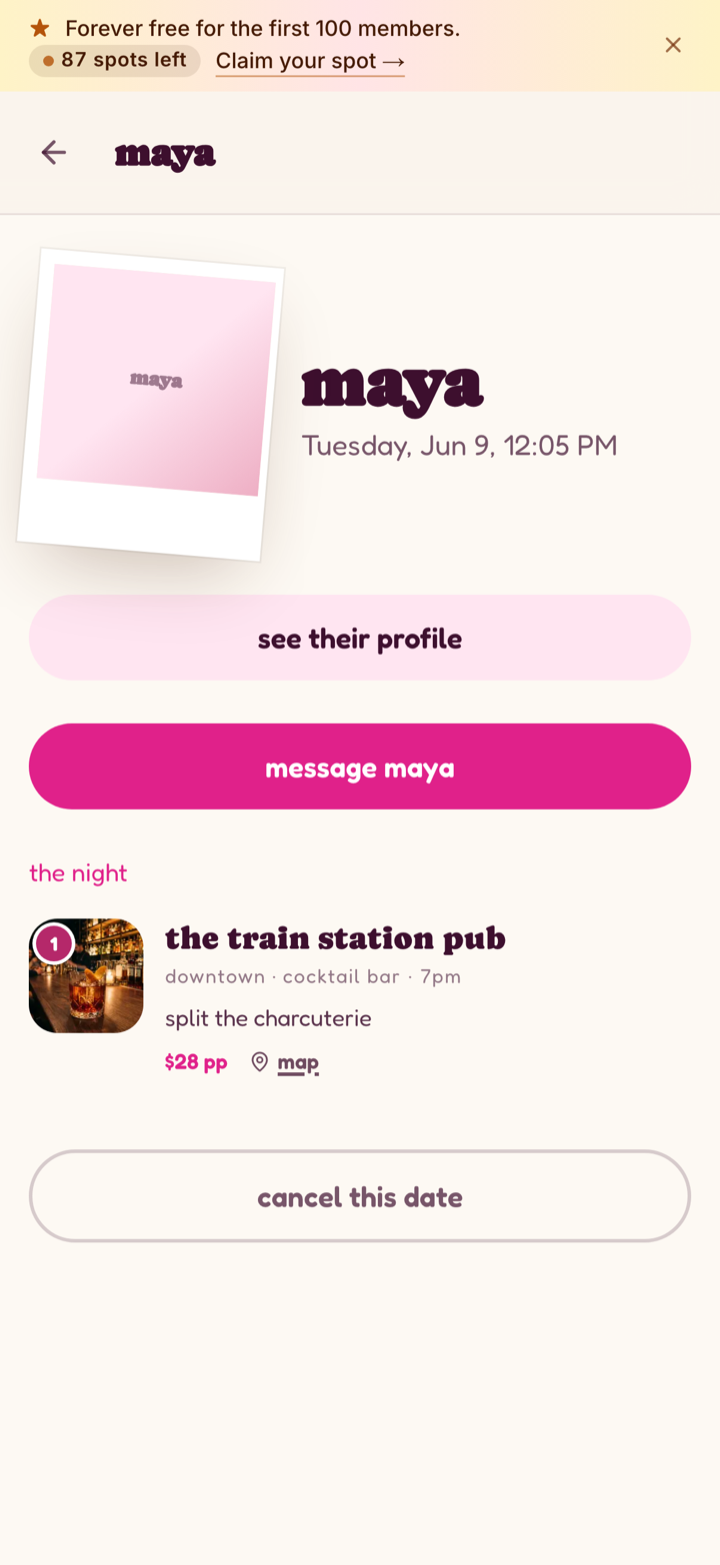
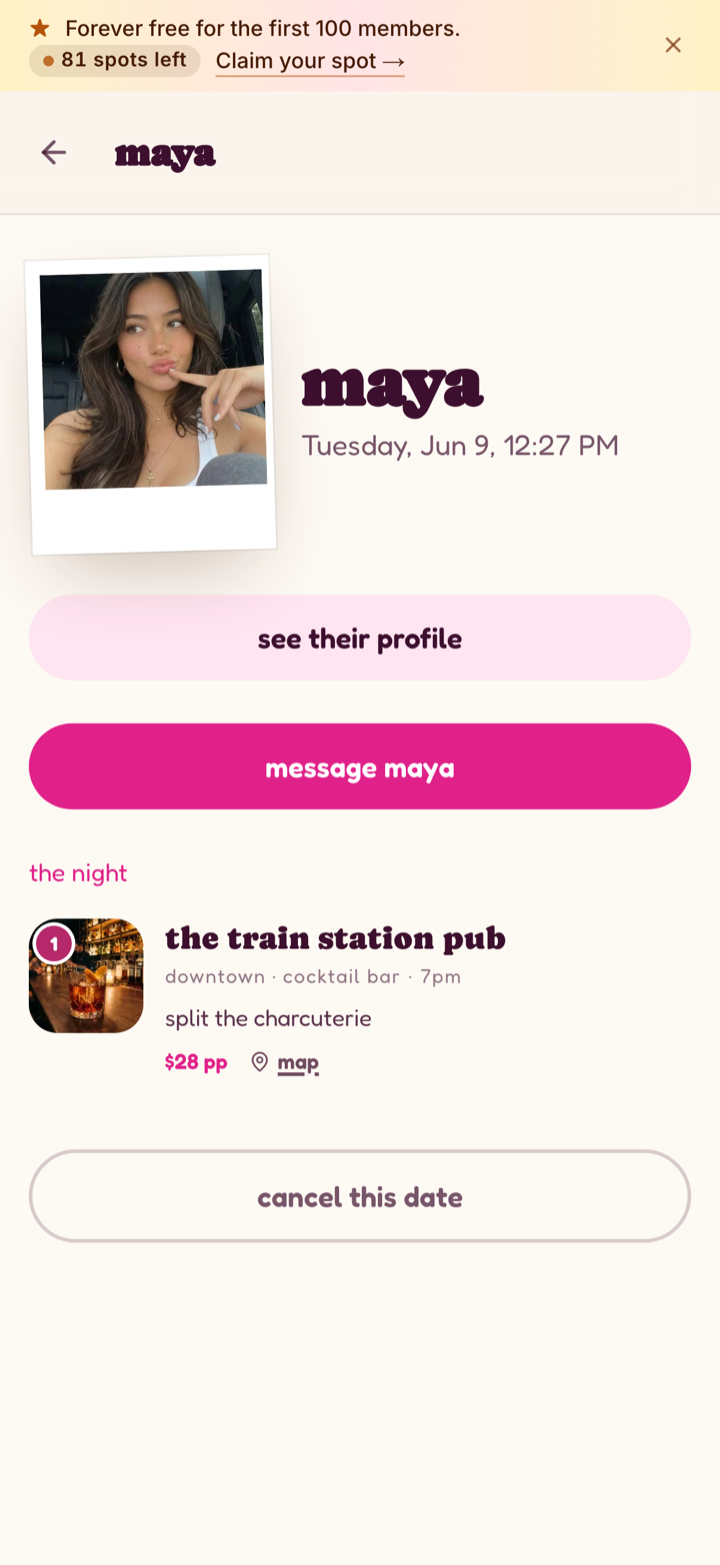
feat(web): real profile photo on the pitch match + reveal shots
Upload a profile photo to local storage + profile_photos row so the match
and reveal screens render a real face instead of the initials placeholder.
Recaptured 04-match/05-reveal. next.config localhost image host was temporary
(reverted) for capture only.

Changed region(s): [[0.0306, 0.1534, 0.3972, 0.3681], [0.7639, 0.276, 0.8556, 0.3067]]

diff --git a/apps/web/e2e/route-pitch.spec.ts b/apps/web/e2e/route-pitch.spec.ts
@@ -8,7 +8,7 @@
 //   05-reveal   the post-lock identity reveal (ProfileCard)
 // Matches testMatch via the `route-` prefix. Output → .planning/pitch/shots/.
 import { test, expect, type Page } from '@playwright/test';
-import { mkdirSync } from 'fs';
+import { mkdirSync, readFileSync } from 'fs';
 import { createClient } from '@supabase/supabase-js';
 import { loginAs } from './_helpers/auth';
 import { seedChatThread, cleanupChat, type ChatSeedResult } from './_helpers/seed';
@@ -26,9 +26,7 @@ async function clean(page: Page) {
   await page.addStyleTag({ content: 'nextjs-portal,[data-nextjs-toast]{display:none!important}' }).catch(() => {});
 }
 
-// Tasteful Unsplash portrait (images.unsplash.com is allow-listed in next.config)
-// so the post-lock reveal shows a real face instead of the initials placeholder.
-const PORTRAIT = 'https://images.unsplash.com/photo-1494790108377-be9c29b29330?w=640&q=80';
+const MAYA_PHOTO = '/Users/lucas/Projects/After5/.planning/pitch/assets/maya.jpg';
 
 let seed: ChatSeedResult;
 test.beforeAll(async () => {
@@ -37,21 +35,32 @@ test.beforeAll(async () => {
   const sb = admin();
   // Replace the shared seed's run-id'd test data with clean, real-looking values.
   // profiles are keyed by id == userId (promoteProfile updates .eq('id', userId)).
-  const p1 = await sb.from('profiles').update({ first_name: 'Maya', clear_photo_url: PORTRAIT }).eq('id', seed.hostId).select('id,first_name');
+  const p1 = await sb.from('profiles').update({ first_name: 'Maya' }).eq('id', seed.hostId).select('id,first_name');
   const p2 = await sb.from('profiles').update({ first_name: 'Jordan' }).eq('id', seed.candId).select('id,first_name');
   const it = await sb.from('itineraries').update({ title: 'cocktails & charcuterie', hook: 'a slow burn downtown' }).eq('user_id', seed.hostId).select('id,title');
   if (p1.error || p2.error || it.error) throw new Error('fixup failed: ' + JSON.stringify([p1.error, p2.error, it.error]));
-  // Prior runs leave seeking nights behind; the candidate's feed shows all matches and a
-  // stale one can sort first. Cancel every OTHER seeking night so only this run's shows.
+  // Give Maya a real profile photo: upload to the profile-photos bucket at the
+  // <userId>/<id>.jpg path the reveal/match pages sign under the viewer's RLS,
+  // then point both the profile_photos primary row and the mirror columns at it.
+  const photoId = '00000000-0000-4000-8000-0000000000aa';
+  const clearPath = `${seed.hostId}/${photoId}.jpg`;
+  const buf = readFileSync(MAYA_PHOTO);
+  const up = await sb.storage.from('profile-photos').upload(clearPath, buf, { contentType: 'image/jpeg', upsert: true });
+  // The reveal/match pages sign profile_photos.clear_path (primary row) under the
+  // viewer's RLS — so the row alone is enough. Leave the profiles mirror columns as the
+  // seed's valid '/places/...' value (setting them to a bare storage path breaks next/image
+  // on surfaces that render the mirror raw).
+  const ph = await sb.from('profile_photos').upsert({ id: photoId, user_id: seed.hostId, clear_path: clearPath, blurred_path: clearPath, sort_order: 0, is_primary: true });
+  // Prior runs leave seeking nights behind; cancel every OTHER seeking night so only this run's shows.
   const cx = await sb.from('date_instances').update({ status: 'cancelled' }).eq('status', 'seeking').neq('id', seed.instanceId).select('id');
-  console.log('PITCH FIXUP →', JSON.stringify({ host: p1.data, cand: p2.data, itin: it.data, cancelledOthers: cx.data?.length, err: cx.error?.message }));
+  console.log('PITCH FIXUP →', JSON.stringify({ itin: it.data, photoUpload: up.error?.message ?? 'ok', photoRow: ph.error?.message ?? 'ok', cancelledOthers: cx.data?.length }));
 });
 test.afterAll(async () => {
   if (seed) await cleanupChat(seed);
 });
 
 test('capture pitch product screenshots', async ({ browser }) => {
-  test.setTimeout(180_000);
+  test.setTimeout(240_000);
   const candCtx = await browser.newContext(MOBILE);
   const hostCtx = await browser.newContext(MOBILE);
   const cand: Page = await loginAs(candCtx, seed.candEmail);
